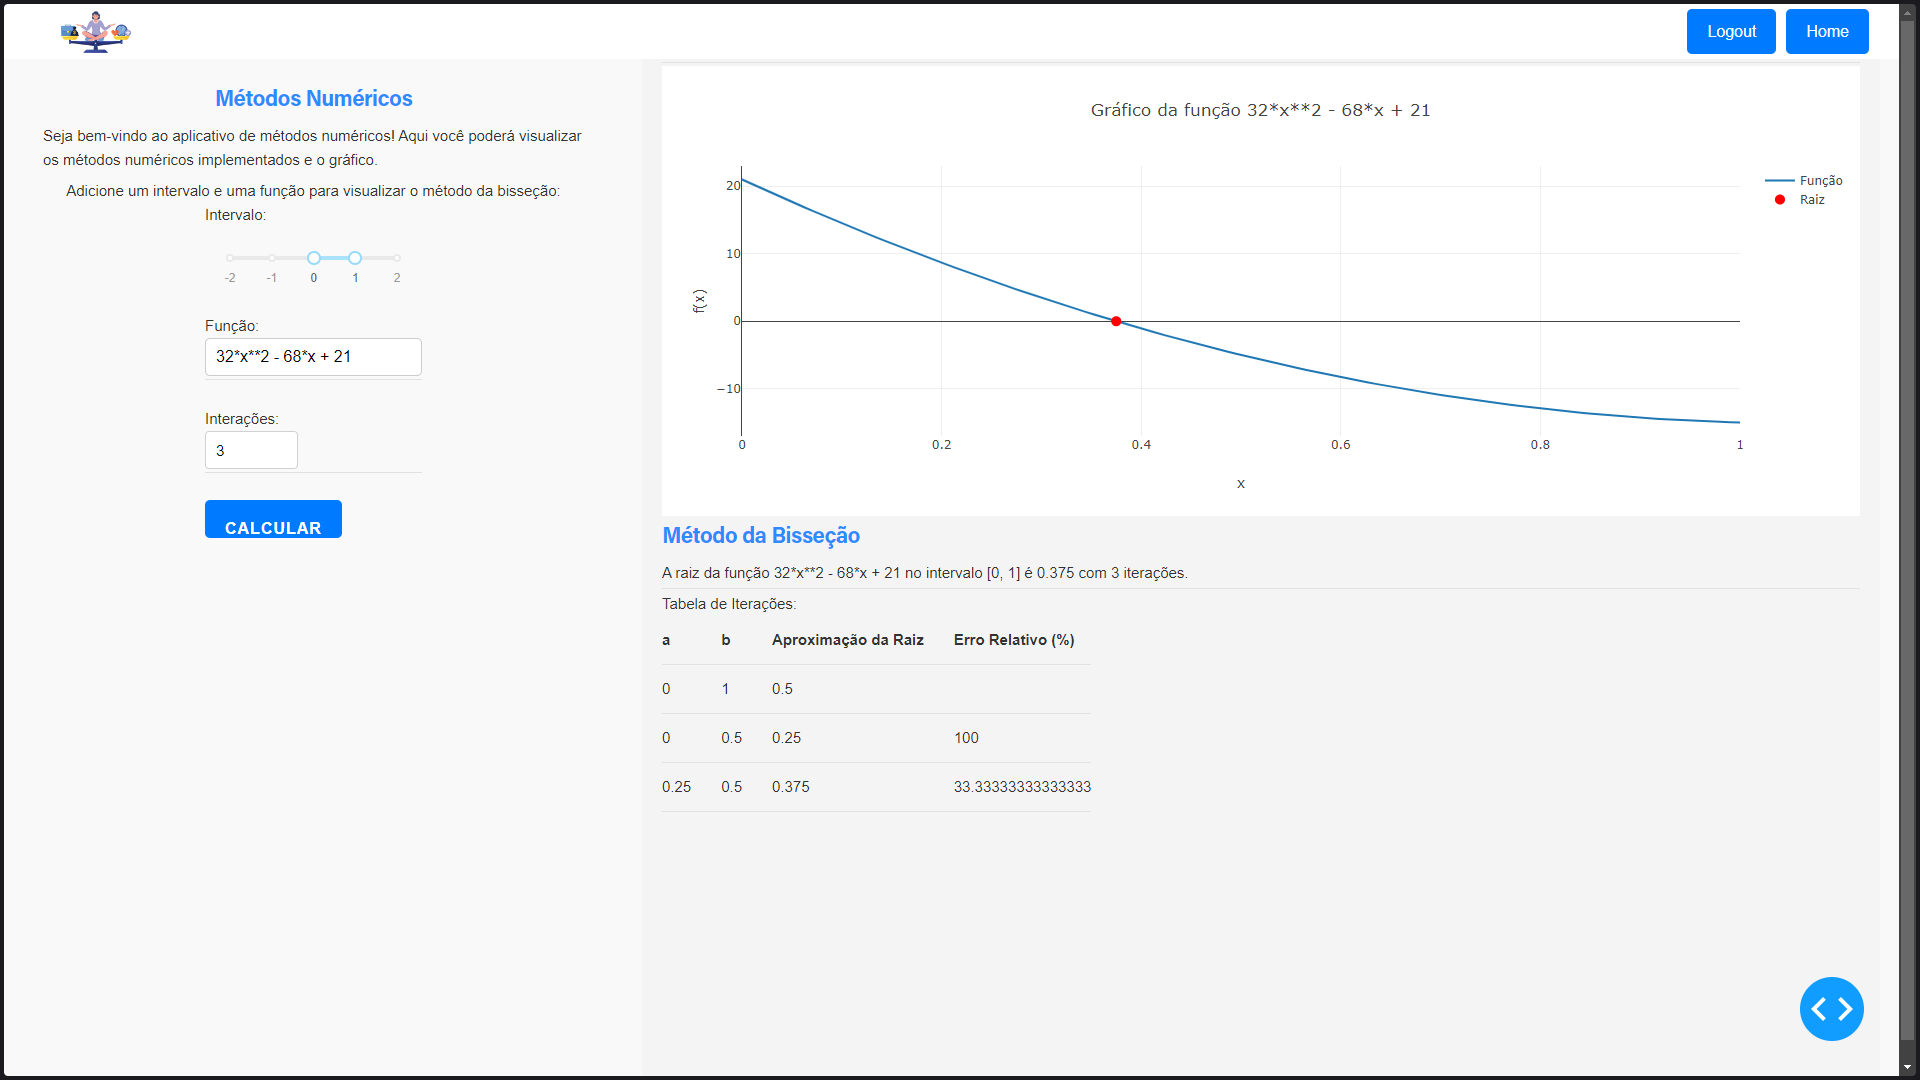
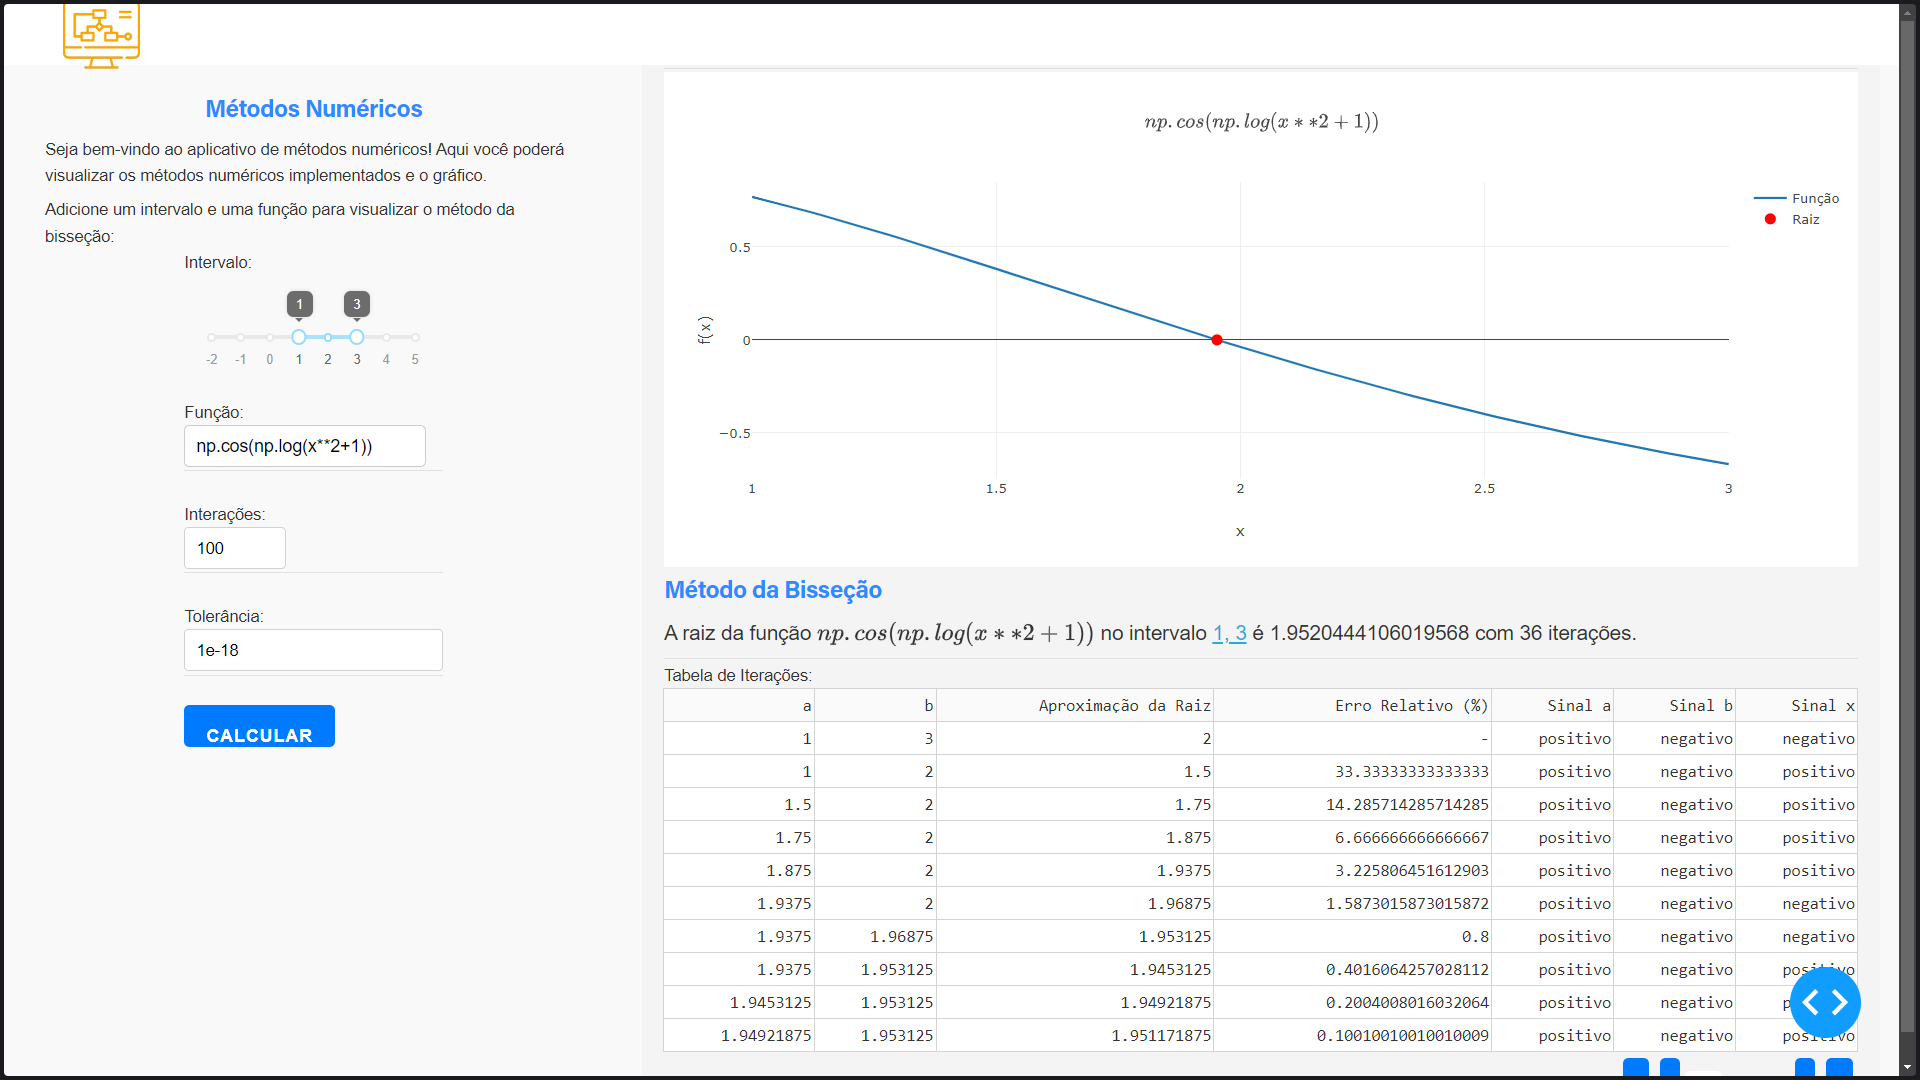
modificando a imagem

diff --git a/dashapp/views.py b/dashapp/views.py
@@ -40,7 +40,15 @@ left_column = html.Div(
             html.Hr(),
             html.Br(),
             html.Label("Interações:"),
-            dcc.Input(id="interacoes", type="number", value=100, min=3, max=100, step=1),
+            dcc.Input(
+                id="interacoes", type="number", value=100, min=3, max=100, step=1
+            ),
+            html.Hr(),
+            html.Br(),
+            html.Label("Tolerância:"),
+            dcc.Input(
+                id="tolerancia", type="number", value=1e-18, min=1e-18, max=100, step=1
+            ),
             html.Hr(),
             html.Br(),
             html.Button("Calcular", id="calcular-bissecao", n_clicks=0),
@@ -48,6 +56,7 @@ left_column = html.Div(
     ],  # Descrição do aplicativo
 )
 
+# Coluna Esquerda
 right_column = html.Div(
     id="right-column",
     className="eight columns",
@@ -97,12 +106,7 @@ app.layout = html.Div([
 @app.callback(Output("conteudo_pagina", "children"), Input("url", "pathname"))
 def carregar_pagina(pathname):
     if pathname == "/":
-        if True:
-            return layout_dashboard
-        else:
-            return dcc.Link(
-                "Usuário não autenticado, faça login aqui", "/login", refresh=True
-            )
+        return layout_dashboard
 
 
 # Calculando a bisseção
@@ -112,13 +116,14 @@ def carregar_pagina(pathname):
     State("intervalo", "value"),
     State("funcao", "value"),
     State("interacoes", "value"),
+    State("tolerancia", "value"),
 )
-def calcular_bissecao(n_clicks, intervalo, funcao, interacoes):
+def calcular_bissecao(n_clicks, intervalo, funcao, interacoes, tolerancia):
     # inicializando a classe metodos_numericos
     mn = metodos_numericos()
     # tratando a função que está em string para uma função que o python entenda
     Bissecao_obj = mn.bissecao(
-        intervalo[0], intervalo[1], lambda x: eval(funcao), maxiter=interacoes
+        intervalo[0], intervalo[1], lambda x: eval(funcao), maxiter=interacoes, tol=tolerancia
     )  # Aumenta o número máximo de iterações
     df = mn.get_df()  # Move a definição de df para fora do bloco try/except
     try:

diff --git a/metodos.py b/metodos.py
@@ -12,7 +12,7 @@ class metodos_numericos:
 
     Methods:
         bissecao(): Executa o método da bisseção para encontrar a raiz.
-        get_df(): Retorna o DataFrame com os valores intermediários.
+        get_df(): Retorna o DataFrame(tabela) com os valores intermediários.
         get_iteracoes(): Retorna o número de iterações realizadas.
     """
 
@@ -125,7 +125,7 @@ class metodos_numericos:
         """
         return self.iteracoes
 
-
+# Exemplo de uso da biblioteca de forma separada
 if __name__ == "__main__":
     # inicializa a biblioteca
     mn = metodos_numericos()
@@ -133,7 +133,7 @@ if __name__ == "__main__":
 
     # seleciona aleatoriamente qual dos dois tipos de funções para testar o
     # método da bisseção
-    var = random.randint(0, 3)
+    var = random.randint(0, 4)
     if var == 0:
 
         def f(x):
@@ -148,14 +148,22 @@ if __name__ == "__main__":
 
         def f(x):
             return np.sin(x) - 0.5
+        
+    elif var == 3:
+        
+        def f(x):
+            return np.cos(np.log(x**2+1))
 
     else:
         import math
 
         def f(x):
             return math.exp(-x) - x
+        
+        
 
     # ----------------------------------------
+    print("Para a função {}".format(str(f)))
     raiz = mn.bissecao(0, 1, f)
     print("Raiz:", raiz)
     print("Iterações:", mn.get_iteracoes())
@@ -163,7 +171,7 @@ if __name__ == "__main__":
 
     from scipy.optimize import bisect
 
-    # Use o método da bisseção para encontrar a raiz da função no intervalo
+    # Mmétodo da bisseção com scipy para encontrar a raiz da função no intervalo
     # [a, b]
     a = 0
     b = 1
